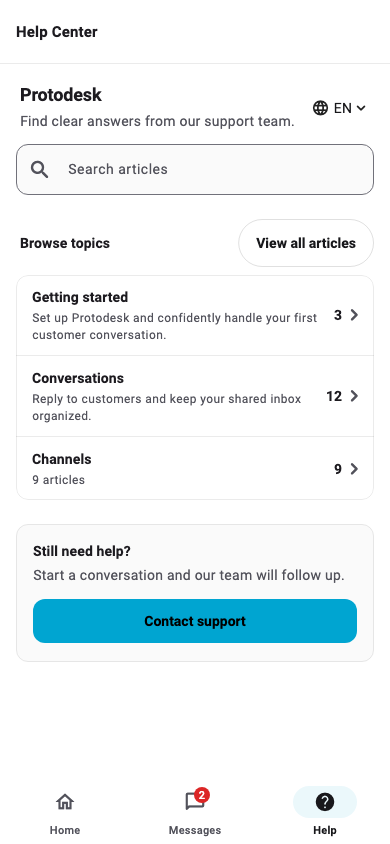
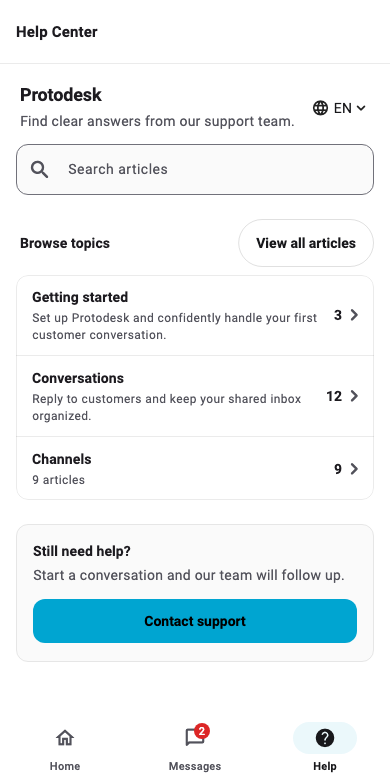
Match the Help Center screenshot to the others

diff --git a/README.md b/README.md
@@ -9,10 +9,10 @@ Home screen, conversations and your Help Center; your team answers from
 Protodesk.
 
 <p>
-  <img src="https://raw.githubusercontent.com/Protodesk/protodesk-chat-flutter/main/screenshots/home.png" height="400" alt="Home tab">
-  <img src="https://raw.githubusercontent.com/Protodesk/protodesk-chat-flutter/main/screenshots/conversation.png" height="400" alt="Conversation">
-  <img src="https://raw.githubusercontent.com/Protodesk/protodesk-chat-flutter/main/screenshots/help.png" height="400" alt="Help Center">
-  <img src="https://raw.githubusercontent.com/Protodesk/protodesk-chat-flutter/main/screenshots/dark-offline.png" height="400" alt="Dark theme, message queued offline">
+  <img src="https://raw.githubusercontent.com/Protodesk/protodesk-chat-flutter/main/screenshots/home.png" width="200" alt="Home tab">
+  <img src="https://raw.githubusercontent.com/Protodesk/protodesk-chat-flutter/main/screenshots/conversation.png" width="200" alt="Conversation">
+  <img src="https://raw.githubusercontent.com/Protodesk/protodesk-chat-flutter/main/screenshots/help.png" width="200" alt="Help Center">
+  <img src="https://raw.githubusercontent.com/Protodesk/protodesk-chat-flutter/main/screenshots/dark-offline.png" width="200" alt="Dark theme, message queued offline">
 </p>
 
 ## Features
